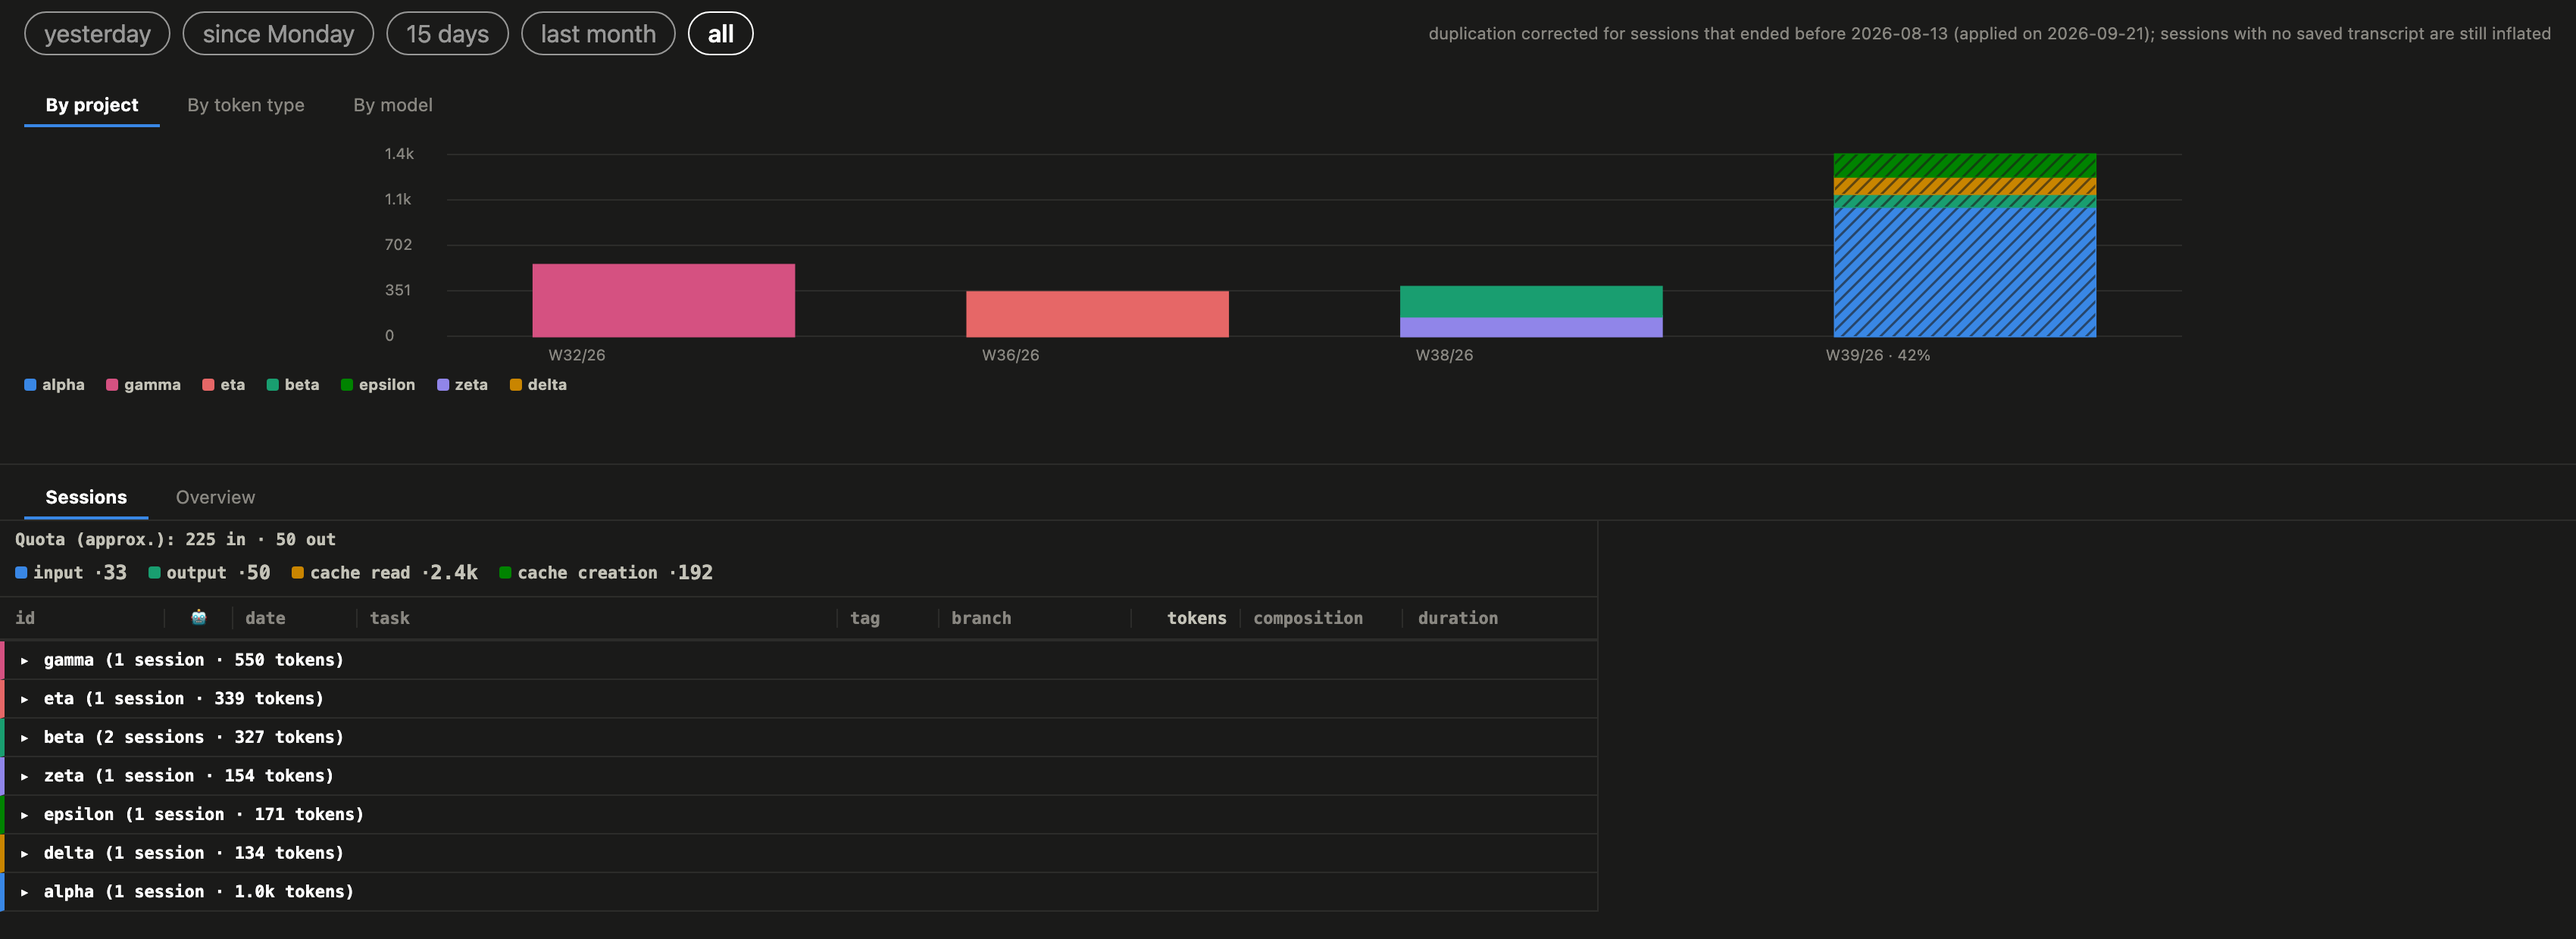
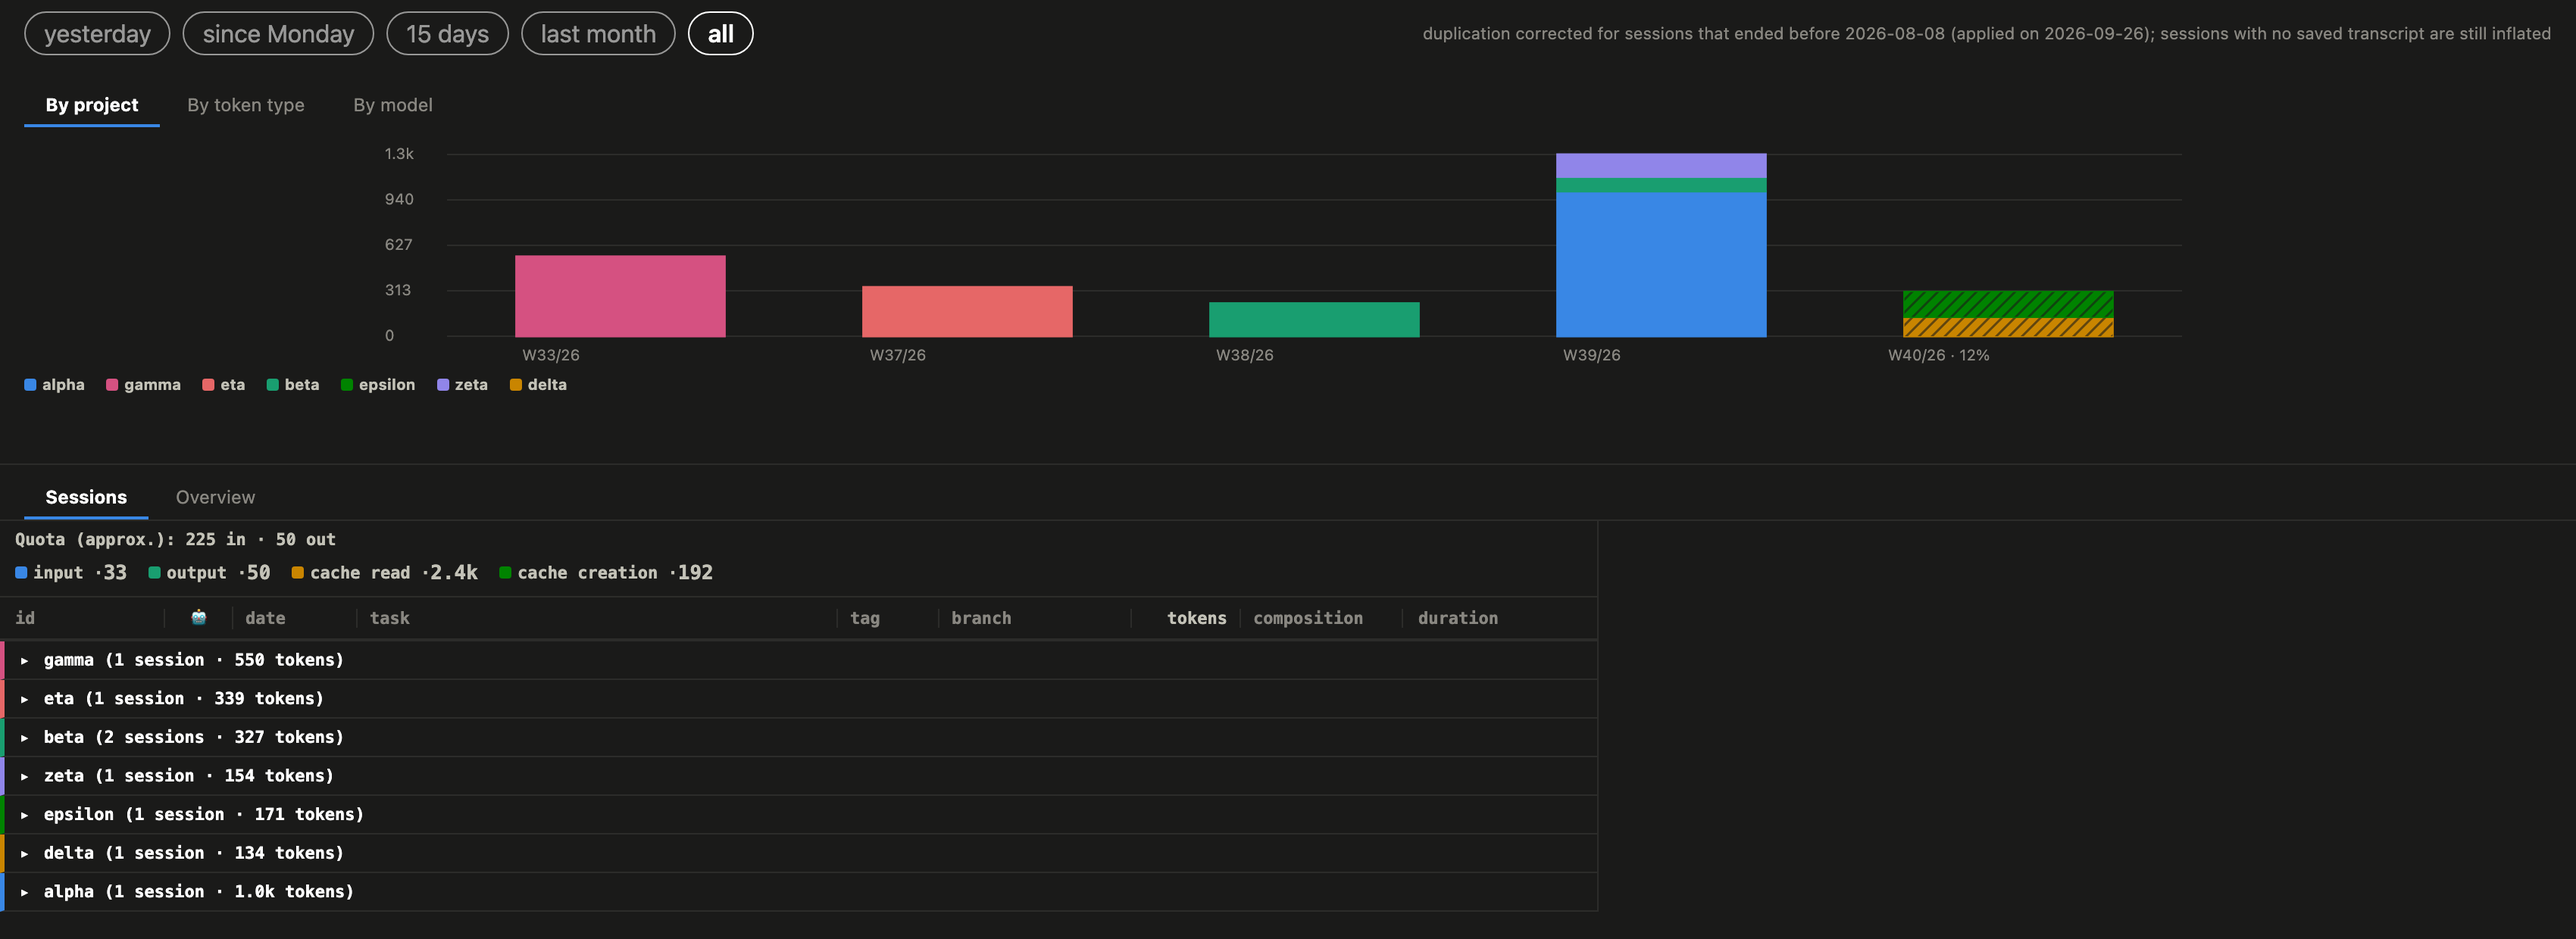
fix: make the demo's backfill note honest, not a fabricated correction
tools/make-demo-assets.py's stage_showcase wrote mr.DEFAULT_CUTOFF
("2026-08-13", a real production date unrelated to this fixture) as
the demo's backfill_state.json cutoff. describe_backfill_state()
renders exactly two shapes - the "not yet corrected" warning, or
"duplication corrected for sessions that ended before {cutoff}
(applied on {applied})" - with no silent third shape: any state with
a string cutoff and a string applied_at renders the second one
regardless of corrected_rows. Since build_fixture's oldest record
(~50 days before "now") usually falls before that fixed cutoff, the
demo claimed a correction had been applied to a session this
synthetic fixture never duplicated in the first place.

Fix: compute the cutoff from the fixture's own data (the earliest
timestamp on any row, minus a day) instead of a second hard-coded
constant. "sessions that ended before {cutoff}" then describes zero
real sessions - vacuously true - and corrected_rows=0 becomes the
literal, provable count of rows below that boundary, not an assertion
made by fiat. Revert-checked: reverting to DEFAULT_CUTOFF reproduces
the false claim (session "old-1" falls before it); the fix does not.

Also fixes a real, unrelated bug found while regenerating the assets
this fix requires: tools/make-demo-assets.py's SHOOT_TUI inline script
still called MetricsTUIApp's third parameter `args` and load_data's
`mr` - names from before a rename in dashboard_tui.py that this
[…]

Changed region(s): [[0.1871, 0.1532, 0.8418, 0.3984], [0.5612, 0.0306, 0.8418, 0.0613], [0.3741, 0.3677, 0.4053, 0.3984]]

diff --git a/tools/make-demo-assets.py b/tools/make-demo-assets.py
@@ -118,17 +118,37 @@ def stage_showcase(home: Path, now: datetime) -> None:
     on their absence, and that the README should not show a visitor:
 
     - backfill_state.json. Without it both dashboards open on the "token
-      duplication not yet corrected" warning. What is written here is what
-      write_backfill_state records for an apply that found nothing to
-      correct - which is the truth about synthetic data. Written through
-      write_backfill_state itself, so the shape cannot drift from what the
-      dashboards read.
-    - a tokens_by_model map on every session, so the by-model chart shows
-      models instead of one "no model" band.
+      duplication not yet corrected" warning. A tokens_by_model map on
+      every session, so the by-model chart shows models instead of one
+      "no model" band.
 
     Every path here is built from `home` and checked to be inside it; none
     is taken from metrics_core's module constants, which point at the
     REAL ~/.claude/metrics in this process.
+
+    BACKFILL STATE HONESTY (backlog 2026-09-24 #9): this used to write
+    mr.DEFAULT_CUTOFF ("2026-08-13") as the state's cutoff. describe_backfill_
+    state() renders EXACTLY two shapes - the "not yet corrected" warning, or
+    "duplication corrected for sessions that ended before {cutoff} (applied
+    on {applied})" - there is no third, silent shape (read describe_
+    backfill_state itself: any state with a string cutoff AND a string
+    applied_at renders the second one, unconditionally, regardless of how
+    many rows corrected_rows says it touched). DEFAULT_CUTOFF is a real
+    production date that has nothing to do with this fixture's own dates,
+    and build_fixture's oldest record (~50 days before `now`) usually falls
+    BEFORE it - so the demo claimed a correction had been applied to a
+    session that this synthetic fixture never duplicated in the first
+    place, on every machine where "now" made the arithmetic land that way.
+
+    The fix is the shape the backlog item itself points at: a cutoff that
+    predates every session this fixture writes. "sessions that ended before
+    {cutoff}" then describes zero real sessions - vacuously true, not a
+    fabricated claim about any session actually shown - and corrected_rows=0
+    stops being an assertion made by fiat and becomes the literal, provable
+    count of rows below that boundary (there are none). Computed from the
+    fixture's OWN data (the earliest timestamp on any row, minus a day),
+    not a second hard-coded constant that could drift out of sync with
+    build_fixture the next time someone adds an older record.
     """
     metrics = home / ".claude" / "metrics"
     sessions = metrics / "sessions.jsonl"
@@ -145,8 +165,15 @@ def stage_showcase(home: Path, now: datetime) -> None:
     sys.path[:0] = [str(REPO / "lib")]
     import metrics_core as mr
 
+    earliest_session_moment = min(
+        datetime.fromisoformat(value)
+        for row in rows
+        for value in (row["timestamp_start"], row["timestamp_end"])
+    )
+    cutoff_before_every_session = (earliest_session_moment - timedelta(days=1)).date().isoformat()
+
     mr.write_backfill_state(
-        mr.DEFAULT_CUTOFF,
+        cutoff_before_every_session,
         (now - timedelta(days=2)).isoformat(),
         0,
         uncorrectable_rows=0,
@@ -268,6 +295,13 @@ def make_screenshot(home: Path, work: Path, lang: str) -> None:
     shutil.move(str(shot), str(ASSETS / f"dashboard-{lang}.png"))
 
 
+# Fixed 2026-09-24 (found while regenerating for backlog #9): MetricsTUIApp's
+# third positional parameter is `arguments`, and load_data's is
+# `metrics_core_module` - this inline script still called them `args` and
+# `mr`, a rename in dashboard_tui.py this untested (see the module
+# docstring) subprocess script never picked up. Confirmed by running: the
+# recording step raised TypeError before this fix and produced a real GIF
+# after it.
 SHOOT_TUI = """
 import asyncio, os, sys
 from pathlib import Path
@@ -280,7 +314,7 @@ BEATS = __import__("json").loads(sys.argv[3])
 
 async def main():
     args = tui.build_arg_parser().parse_args(["--label-budget", "0"])
-    app = tui.MetricsTUIApp(mr, tui.load_data(args, mr=mr), args=args)
+    app = tui.MetricsTUIApp(mr, tui.load_data(args, metrics_core_module=mr), arguments=args)
     async with app.run_test(size=tuple(__import__("json").loads(sys.argv[4]))) as pilot:
         await pilot.pause()
         for i, keys in enumerate(BEATS):
